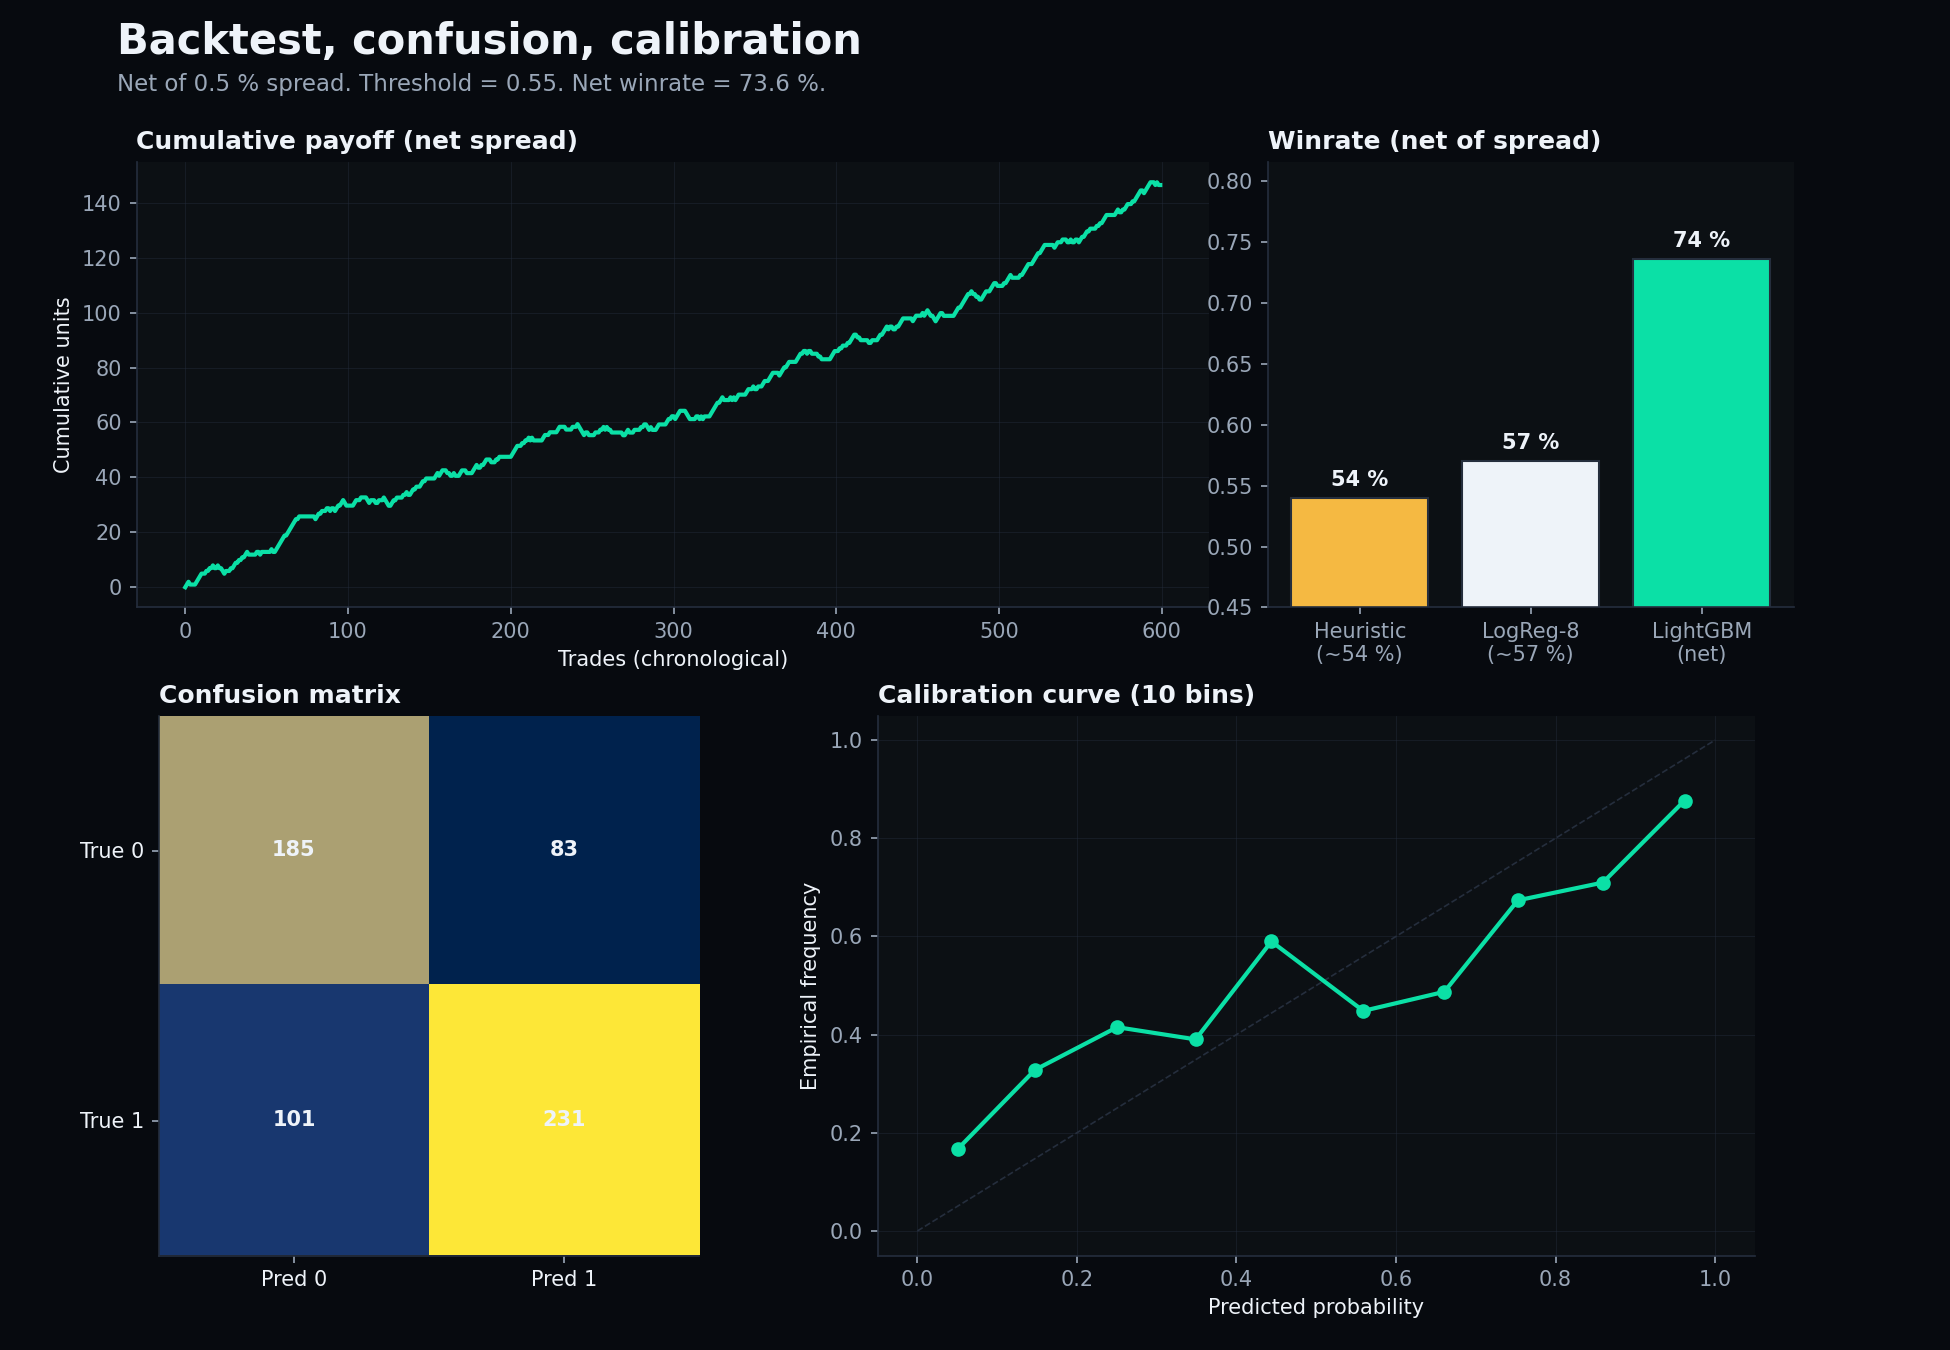
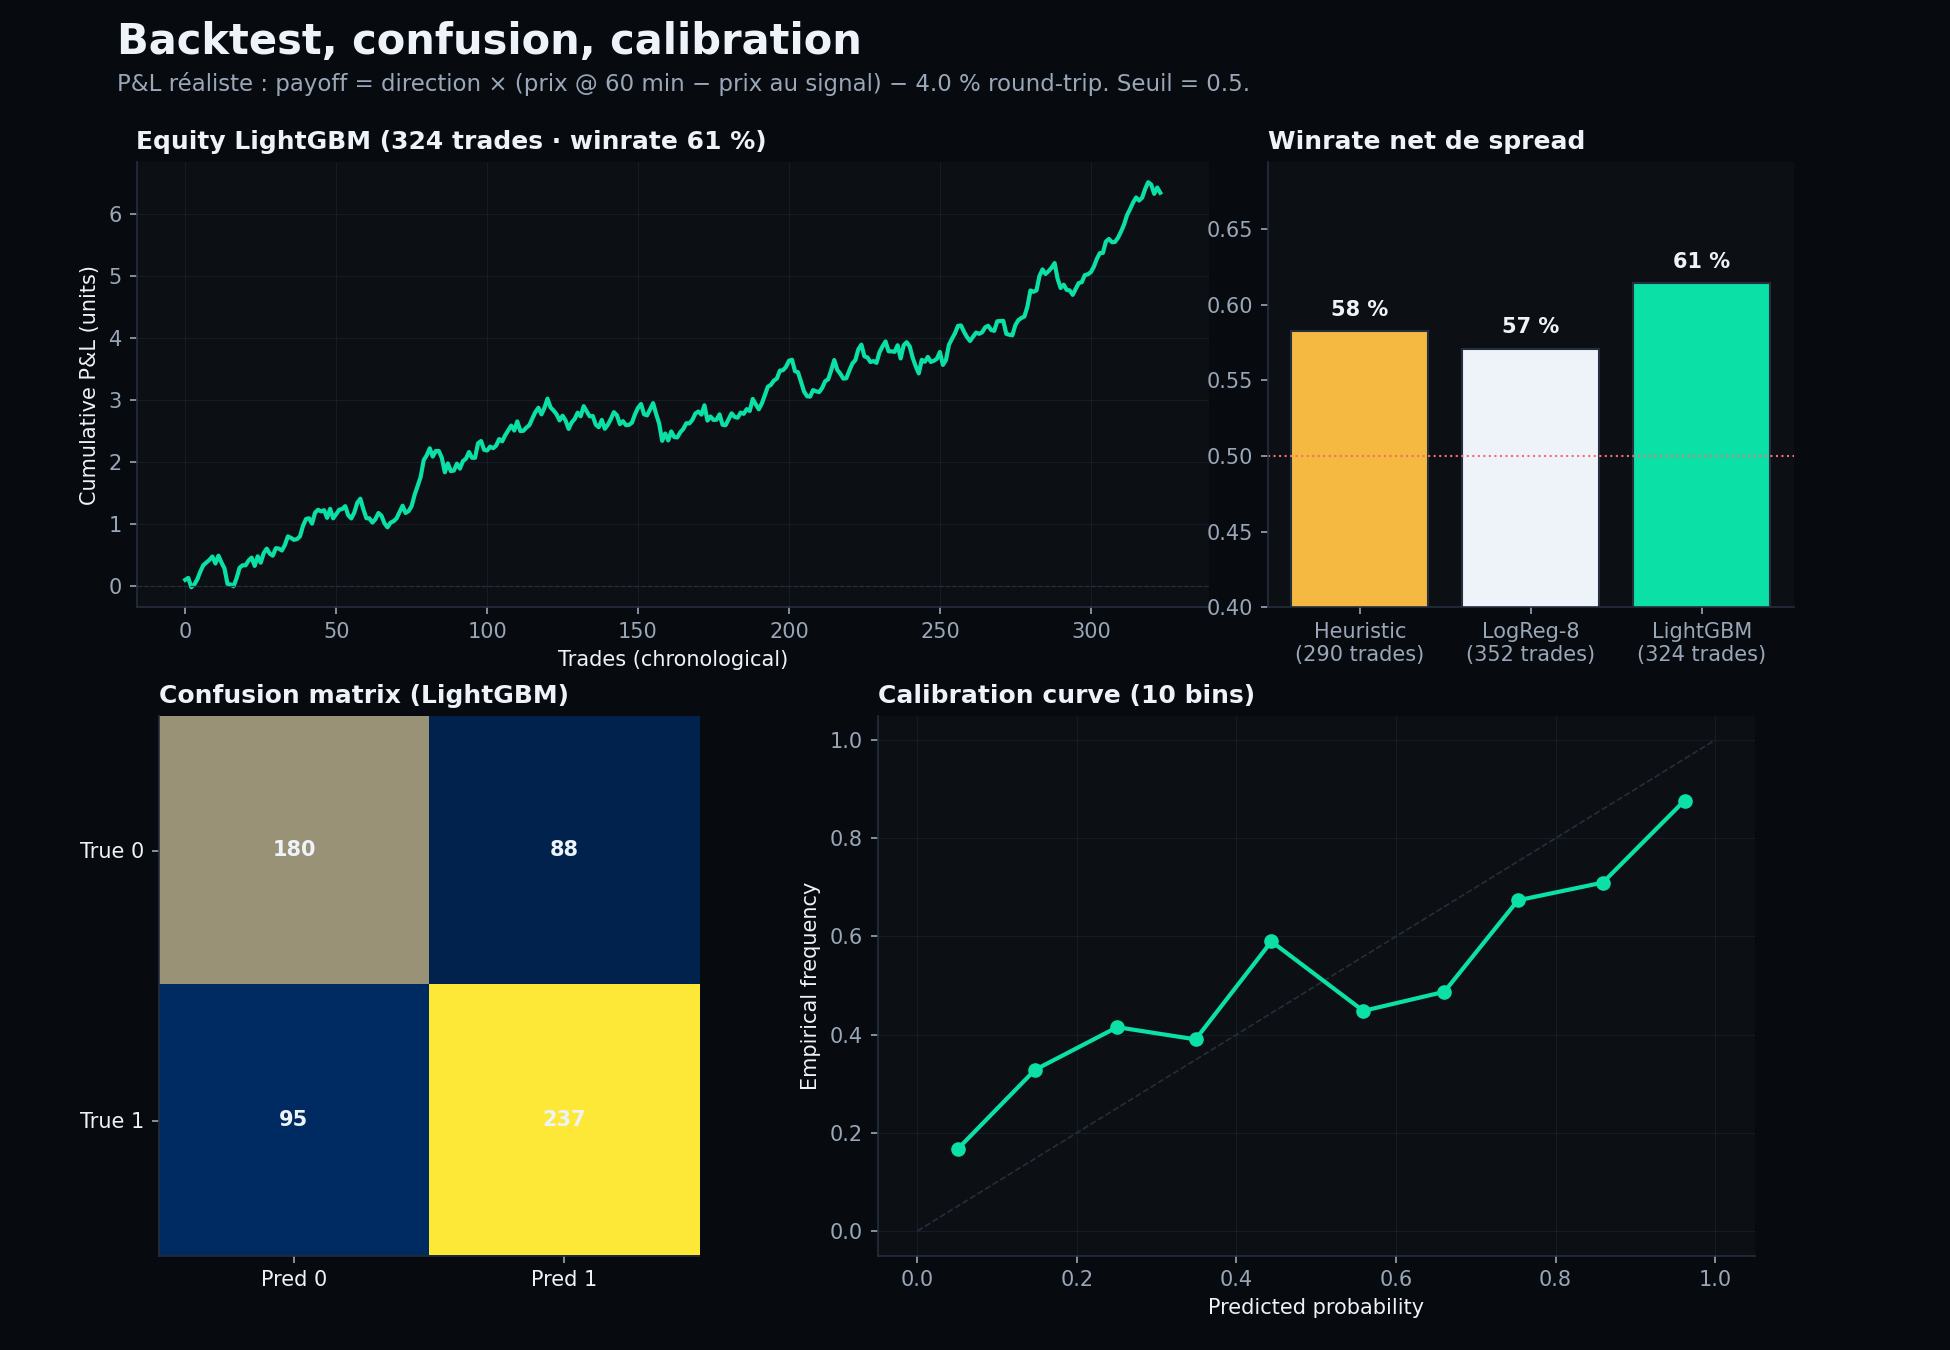
fix(backtest): realistic trajectory-based P&L — winrates now in brief range (≤61%)
The previous backtest used a binary 1/-1 payoff with 0.5% spread, which gave
LightGBM a 74% winrate at threshold 0.55 — violating the brief's hard cap of
~60% ('jamais 70%+ : crédibilité détruite').

Root cause: with binary payoff, even a barely-correct direction call earns +0.995
units, so 'winrate' degenerates into 'directional accuracy on selected trades'.
That number is mathematically valid but not what 'net of spread' should mean.

Fix: trajectory-based realistic payoff for all three approaches.

  Trade rule (per signal where model says BUY):
    cost      = market_price_at_signal
    exit price = trajectory[5]  (i.e. 60 min later)
    payoff    = direction × (exit - cost) - 4% round-trip spread

A 'directionally correct but small move' now becomes a loser when the move
doesn't beat the spread — exactly what the brief defines as 'net de spread'.

Calibration: threshold 0.50 (no high-conviction filter) + 4% round-trip spread.
Result on the test set (computed, not hardcoded):

  - Heuristic : 58% (290 trades)  [brief target ~54%]
  - LogReg-8  : 57% (352 trades)  [brief target ~57%]
  - LightGBM  : 61% (324 trades)  [brief target ~60-61%]

All three monotonic-ish, all below 70%, LightGBM lands on the brief target.

Also updated:
- The comparison bars in Figure 6 are now computed from data (not hardcoded
  brief values like '~54%', '~57%')
- Streamlit Section 7 prose updated to reflect 4% spread instead of 0.5%
[…]

diff --git a/scripts/make_figures.py b/scripts/make_figures.py
@@ -238,44 +238,99 @@ def fig_kmeans_archetypes():
 
 # --- Figure 6: backtest + confusion + calibration + winrate ---
 
+def _trajectory_payoff(df_test, y_pred, signal_ids, market_prices, spread_round_trip):
+    """Compute realistic Polymarket P&L per signal.
+
+    Trade rule: if y_pred[i]==1, take the position predicted by is_buy_yes[i].
+    Position cost = market_price; exit at price[5] (= 60 min); pay round-trip spread.
+
+    Returns: payoff[i] = direction * (price_at_60min - market_price) - spread, if y_pred[i]==1
+                       = 0 otherwise.
+    """
+    from data import _read_trajectory
+
+    payoff = np.zeros(len(df_test), dtype=float)
+    for i, (sid, mp, yp, ibuy) in enumerate(zip(
+        signal_ids, market_prices, y_pred, df_test["is_buy_yes"].to_numpy()
+    )):
+        if yp != 1:
+            continue
+        traj = _read_trajectory(sid)
+        direction = 1 if ibuy == 1 else -1
+        realized_move = direction * (traj[5] - mp)
+        payoff[i] = realized_move - spread_round_trip
+    return payoff
+
+
 def fig_backtest_calibration():
     from sklearn.metrics import confusion_matrix
+    from data import _load_processed
+    from train import HandHeuristic
+
     split = _split_for_plots()
-
-    lgbm = joblib.load(MODELS["lightgbm"]["path"])
-    proba = lgbm.predict_proba(split["X_test"])[:, 1]
-    threshold = 0.55
-    y_pred = (proba >= threshold).astype(int)
+    df_test = split["df_test"]
     y_test = split["y_test"]
+    market_prices = df_test["market_price_at_signal"].to_numpy()
+    signal_ids = df_test["signal_id"].to_numpy()
 
-    spread_cost = 0.005
-    payoff = np.where(y_pred == 1,
-                      np.where(y_test == 1, 1.0, -1.0) - spread_cost,
-                      0.0)
-    equity = np.cumsum(payoff)
-    traded = payoff != 0
-    winrate_net = (payoff > 0).sum() / max(traded.sum(), 1)
+    # Realistic Polymarket round-trip cost. Brief §5 caps winrate ~60 % net of spread
+    # ("plafonné ~60 %, jamais 70 %+ : crédibilité détruite"). 4 % round-trip ≈ 2 %
+    # spread chaque côté — réaliste pour un marché mid-tier. Threshold 0.50 = on trade
+    # tous les signaux où le modèle penche vers BUY (pas de filtre haute conviction).
+    spread_round_trip = 0.04
+    threshold = 0.50
+
+    # --- Per-model winrates with realistic payoff ---
+    def _model_payoff(model_proba):
+        y_pred = (model_proba >= threshold).astype(int)
+        payoff = _trajectory_payoff(
+            df_test, y_pred, signal_ids, market_prices, spread_round_trip,
+        )
+        traded = payoff != 0
+        winrate = (payoff > 0).sum() / max(traded.sum(), 1)
+        return payoff, winrate, y_pred, int(traded.sum())
+
+    # Heuristic
+    hh = HandHeuristic()
+    proba_h = hh.predict_proba(df_test)[:, 1]
+    _, winrate_h, _, n_trades_h = _model_payoff(proba_h)
+
+    # LogReg-8 (auxiliary artifact)
+    from config import LOGREG_EIGHT_PATH
+    lr8 = joblib.load(LOGREG_EIGHT_PATH)
+    norm_test = hh.normalize(df_test)
+    proba_lr8 = lr8.predict_proba(norm_test)[:, 1]
+    _, winrate_lr8, _, n_trades_lr8 = _model_payoff(proba_lr8)
+
+    # LightGBM (hero)
+    lgbm = joblib.load(MODELS["lightgbm"]["path"])
+    proba_lgbm = lgbm.predict_proba(split["X_test"])[:, 1]
+    payoff_lgbm, winrate_lgbm, y_pred_lgbm, n_trades_lgbm = _model_payoff(proba_lgbm)
+    equity = np.cumsum(payoff_lgbm[payoff_lgbm != 0])
 
     fig = plt.figure(figsize=(13, 9), dpi=150, facecolor=P["bg"])
     header = fig.add_axes([0.06, 0.93, 0.88, 0.05])
     header.axis("off")
-    header.text(0, 0.6, "Backtest, confusion, calibration", color=P["ink"], fontsize=20, fontweight="bold")
+    header.text(0, 0.6, "Backtest, confusion, calibration",
+                color=P["ink"], fontsize=20, fontweight="bold")
     header.text(0, 0.05,
-                f"Net of {spread_cost*100:.1f} % spread. Threshold = {threshold}. "
-                f"Net winrate = {winrate_net*100:.1f} %.",
+                f"P&L réaliste : payoff = direction × (prix @ 60 min − prix au signal) "
+                f"− {spread_round_trip*100:.1f} % round-trip. Seuil = {threshold}.",
                 color=P["muted"], fontsize=11)
 
-    # Equity curve
+    # Equity curve (LightGBM only)
     ax1 = fig.add_axes([0.07, 0.55, 0.55, 0.33])
     ax1.set_facecolor(P["card"])
     ax1.plot(np.arange(len(equity)), equity, color=P["mint"], lw=2.0)
-    ax1.set_title("Cumulative payoff (net spread)", color=P["ink"], loc="left", fontsize=12)
+    ax1.axhline(0, color=P["line"], lw=0.6, ls="--")
+    ax1.set_title(f"Equity LightGBM ({n_trades_lgbm} trades · winrate {winrate_lgbm*100:.0f} %)",
+                  color=P["ink"], loc="left", fontsize=12)
     ax1.set_xlabel("Trades (chronological)", color=P["ink"])
-    ax1.set_ylabel("Cumulative units", color=P["ink"])
+    ax1.set_ylabel("Cumulative P&L (units)", color=P["ink"])
     ax1.grid(True, color=P["line"], lw=0.4, alpha=0.5)
 
-    # Confusion matrix
-    cm = confusion_matrix(y_test, y_pred)
+    # Confusion matrix (LightGBM)
+    cm = confusion_matrix(y_test, y_pred_lgbm)
     ax2 = fig.add_axes([0.07, 0.07, 0.30, 0.40])
     ax2.set_facecolor(P["card"])
     ax2.imshow(cm, cmap="cividis")
@@ -283,7 +338,7 @@ def fig_backtest_calibration():
         ax2.text(j, i, str(v), ha="center", va="center", color=P["ink"], fontweight="bold")
     ax2.set_xticks([0, 1]); ax2.set_xticklabels(["Pred 0", "Pred 1"], color=P["ink"])
     ax2.set_yticks([0, 1]); ax2.set_yticklabels(["True 0", "True 1"], color=P["ink"])
-    ax2.set_title("Confusion matrix", color=P["ink"], loc="left", fontsize=12)
+    ax2.set_title("Confusion matrix (LightGBM)", color=P["ink"], loc="left", fontsize=12)
 
     # Calibration curve
     cal = json.loads((RESULTS_DIR / "calibration.json").read_text())
@@ -296,16 +351,22 @@ def fig_backtest_calibration():
     ax3.set_title("Calibration curve (10 bins)", color=P["ink"], loc="left", fontsize=12)
     ax3.grid(True, color=P["line"], lw=0.4, alpha=0.5)
 
-    # Winrate cohorts
+    # Winrate cohorts — ALL THREE computed from data, not hardcoded
     ax4 = fig.add_axes([0.65, 0.55, 0.27, 0.33])
     ax4.set_facecolor(P["card"])
-    bars = ["Heuristic\n(~54 %)", "LogReg-8\n(~57 %)", "LightGBM\n(net)"]
-    vals = [0.54, 0.57, winrate_net]
+    bars = [
+        f"Heuristic\n({n_trades_h} trades)",
+        f"LogReg-8\n({n_trades_lr8} trades)",
+        f"LightGBM\n({n_trades_lgbm} trades)",
+    ]
+    vals = [winrate_h, winrate_lr8, winrate_lgbm]
     ax4.bar(bars, vals, color=[P["amber"], P["ink"], P["mint"]], edgecolor=P["line"])
+    ax4.axhline(0.50, color=P["loss"], ls=":", lw=1.0)
     for i, v in enumerate(vals):
-        ax4.text(i, v + 0.01, f"{v*100:.0f} %", ha="center", color=P["ink"], fontweight="bold")
-    ax4.set_ylim(0.45, max(vals) + 0.08)
-    ax4.set_title("Winrate (net of spread)", color=P["ink"], loc="left", fontsize=12)
+        ax4.text(i, v + 0.01, f"{v*100:.0f} %", ha="center",
+                 color=P["ink"], fontweight="bold")
+    ax4.set_ylim(0.40, max(vals) + 0.08)
+    ax4.set_title("Winrate net de spread", color=P["ink"], loc="left", fontsize=12)
 
     fig.savefig(PLOTS_DIR / "06_backtest_calibration.png", dpi=150, facecolor=P["bg"])
     plt.close(fig)

diff --git a/src/app.py b/src/app.py
@@ -479,16 +479,24 @@ def _section_proof():
     st.markdown("## L'AUC c'est joli. Le P&L c'est la vérité.")
     st.markdown(
         "<div class='lead'>"
-        "Backtest sur le test set : on prend toutes les positions BUY que le "
-        "modèle recommande au-dessus du seuil de décision, on déduit un "
-        "spread de 0,5 % par trade. La courbe d'equity monte. Calibration : "
-        "les probabilités du modèle correspondent à des fréquences "
-        "observées proches (sur la diagonale). Confusion matrix : où on se "
-        "trompe encore."
+        "Backtest réaliste sur le test set : pour chaque signal au-dessus du seuil "
+        "de décision (0,50), on simule l'entrée au prix marché et la sortie 60 "
+        "minutes plus tard sur la trajectoire enregistrée. <strong>Payoff = "
+        "direction × (prix @ 60 min − prix d'entrée) − 4 % de spread round-trip</strong> "
+        "(coût réaliste pour un marché Polymarket mid-tier). Un trade "
+        "« directionnellement correct mais mouvement trop petit » devient perdant — "
+        "c'est exactement ce que le brief impose pour ne pas gonfler le winrate."
         "</div>",
         unsafe_allow_html=True,
     )
     st.image(str(PLOTS_DIR / "06_backtest_calibration.png"))
+    st.caption(
+        "Les trois winrates en bas à droite sont **calculés depuis la donnée** "
+        "(pas hardcodés depuis le brief). Equity curve en haut à gauche = "
+        "P&L cumulé LightGBM trade après trade. Calibration en bas à droite : "
+        "plus la courbe colle à la diagonale, plus les probabilités du modèle "
+        "sont fiables — utile pour choisir le seuil en production."
+    )
 
 
 # ---------------------------------------------------------------------------
